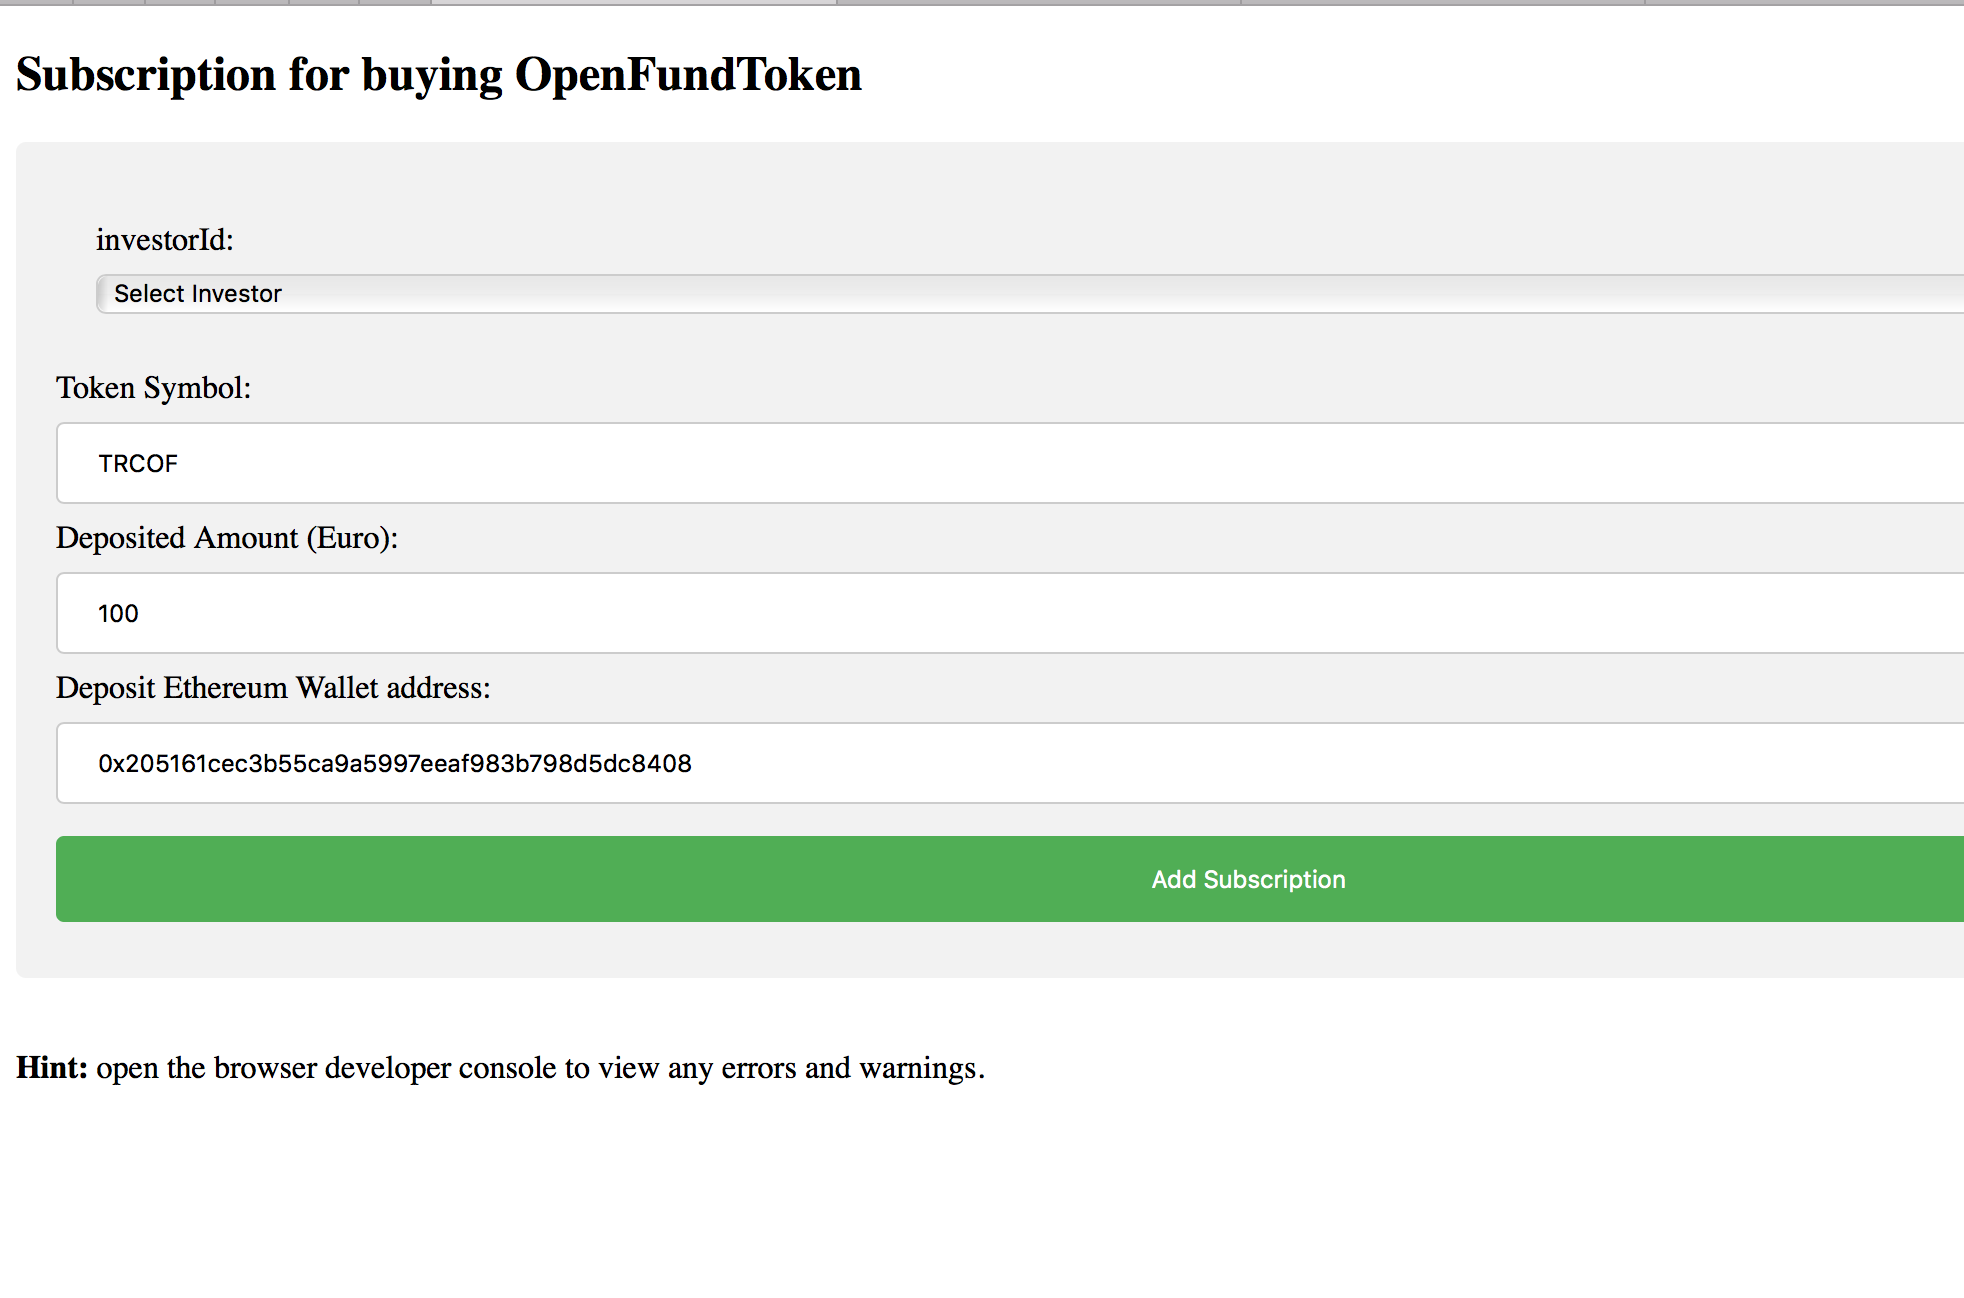
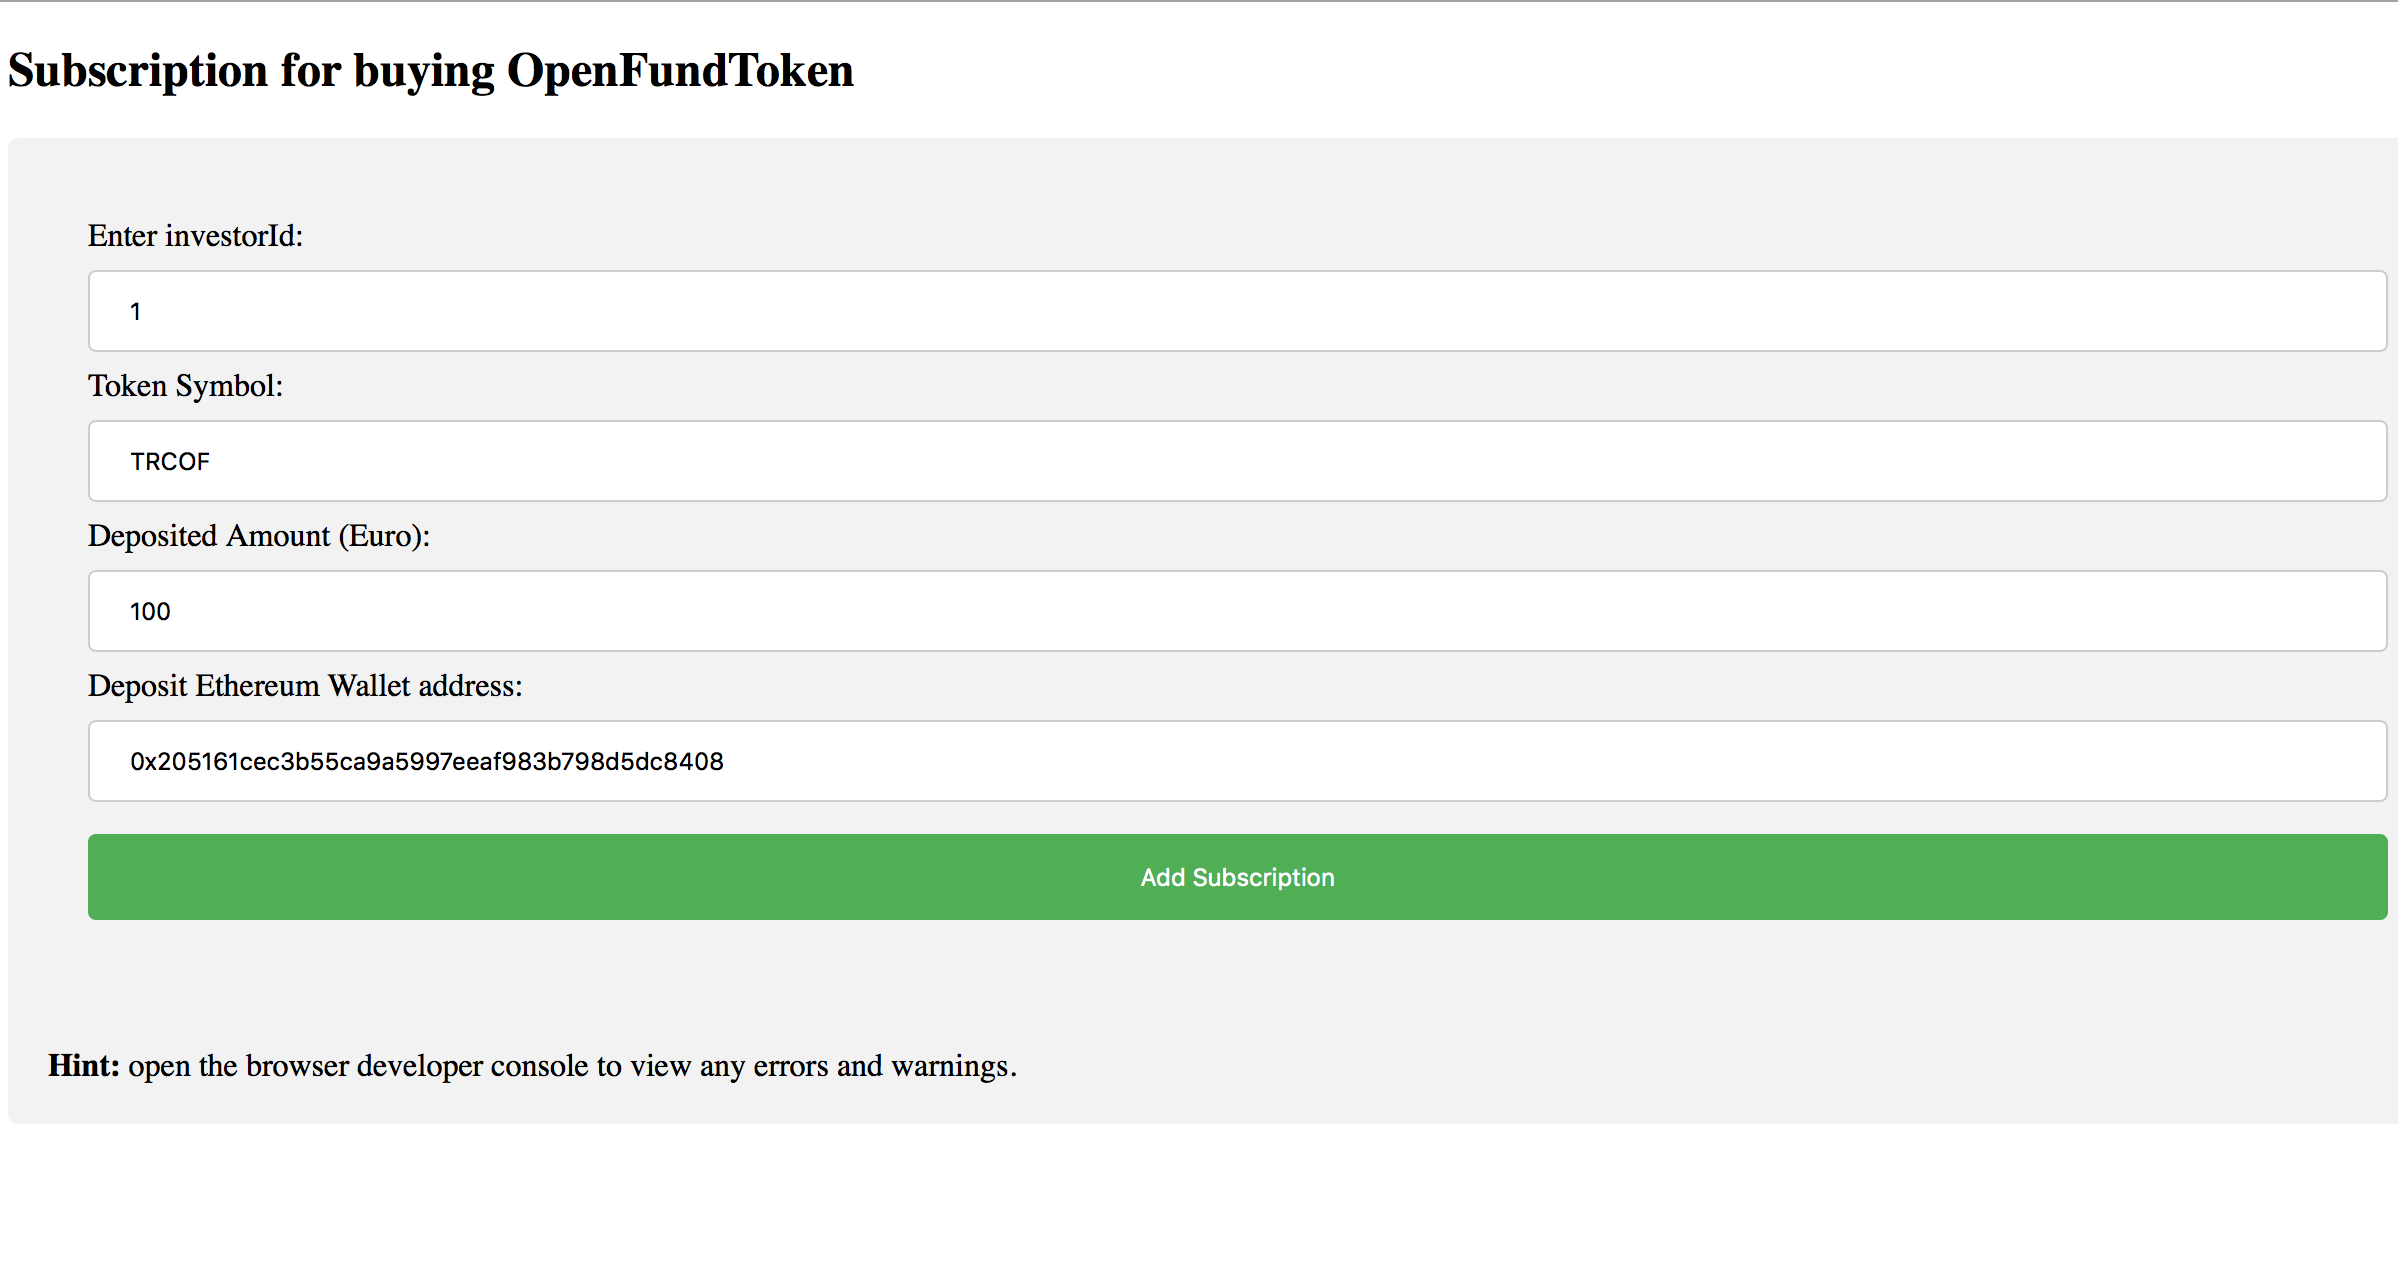
update readMe

diff --git a/README.md b/README.md
@@ -15,6 +15,7 @@ This project doesn't use truffle.
 ### Server.js
 A test restful http-server to allow calling the services from the browser to display subscriptions, investors, funds and to add new subscriptions through a basic HTML Form.
 
+#### Get Subscriptions
 * Example to Get existing subscriptions 
 ```
 http://localhost:8000/api/subscriptions
@@ -22,11 +23,44 @@ http://localhost:8000/api/subscriptions
 ```
 ![Server](/images/server_home.png)
 
-* POST new subscriptions  requests can be send through a Simple Form.
+>ON first Run, Subscriptions Cache is empty ( Reload the browser, the issue will be fixed)
 
+#### Add Subscriptions ( UI)
+* Adding new subscriptions requests can be done through a Simple Form.
+( use the Link "Add Subcription" in the GUI, to start the form)
 
 ![addSubscription](/images/addSubscription.png)
+
+* Enter an existing investorId
 ----
+
+#### Add Investors, Funds and Rates (No UI, static data)
+
+For investors , funds and rates , the data is for "now" static in the application, and can be changed only by modifying application files:
+
+To Add Investors:
+* open the file fund-oracles/src/database/InvestorRepository.js
+* edit the init method by adding data in the model as the example below:
+
+```
+//Before:
+function InvestorRepository() {
+    this.investors = [
+        new Model(1, "Jane", "Doe")
+    ];
+}
+//After adding 2 investors
+
+function InvestorRepository() {
+   this.investors = [
+        new Model(1, "Jane", "Doe"),
+		 new Model(1, "Fernando", "Gomez"),
+		new Model(1, "Paulo", "Rossini")
+    ];
+}
+
+```
+The same gilt for adding funds and Rates. The Server need to be restarted after the changes.
 
 
 ### Models & Database
@@ -52,13 +86,6 @@ The rest of the data ( master Data) like rates , investors, funds is for now is 
 
 >The data is defined in the database folder, a database (for example mongoDb) can be added later to persist the data.
 
-
-#### example master data:
-```
-const investors = [  {id: 1, firstName: 'Jane', lastName:'Doe'}];
-const funds = [  { token: 'TRCOF', name: 'openfund'}];
-..
-```
 
 ### Services
 #### SubscriptionService.js
@@ -160,6 +187,8 @@ sh runTestRpc.sh
 ```
 truffle deploy
 ```
+> JSON Files for the contracts ( containing the ABI) will be created
+under build/contracts
 
 ### Step2: Install NodeJS  ( only needed on first Run)
 
@@ -208,8 +237,15 @@ ethereumNode: {
         net:"development"
     },
 ```
+
+
 >all possible values are listed in the file 
 fund-oracles/src/utils/eth-networks.json  
+
+
+
+* copy the generated JSON contracts files ABI  ( containing the ABI) from
+"build/contracts" to the "contracts_api" folder ( this step will be automated in circleCi)
 
 
 * start server  
@@ -230,15 +266,15 @@ node server/Server.js
 
 * check if server is running under http://[ trecento server name]:8000
 
-## Installation TEST
+## Installation TEST ( Kovan Network)
 ### Server 
 tbd
 
-### Blockchain & SmartContracts Rinkeby
+### Blockchain & SmartContracts 
 tbd
 
 
-## Installation PROD
+## Installation mainNet
 ### Server 
 tbd
 
